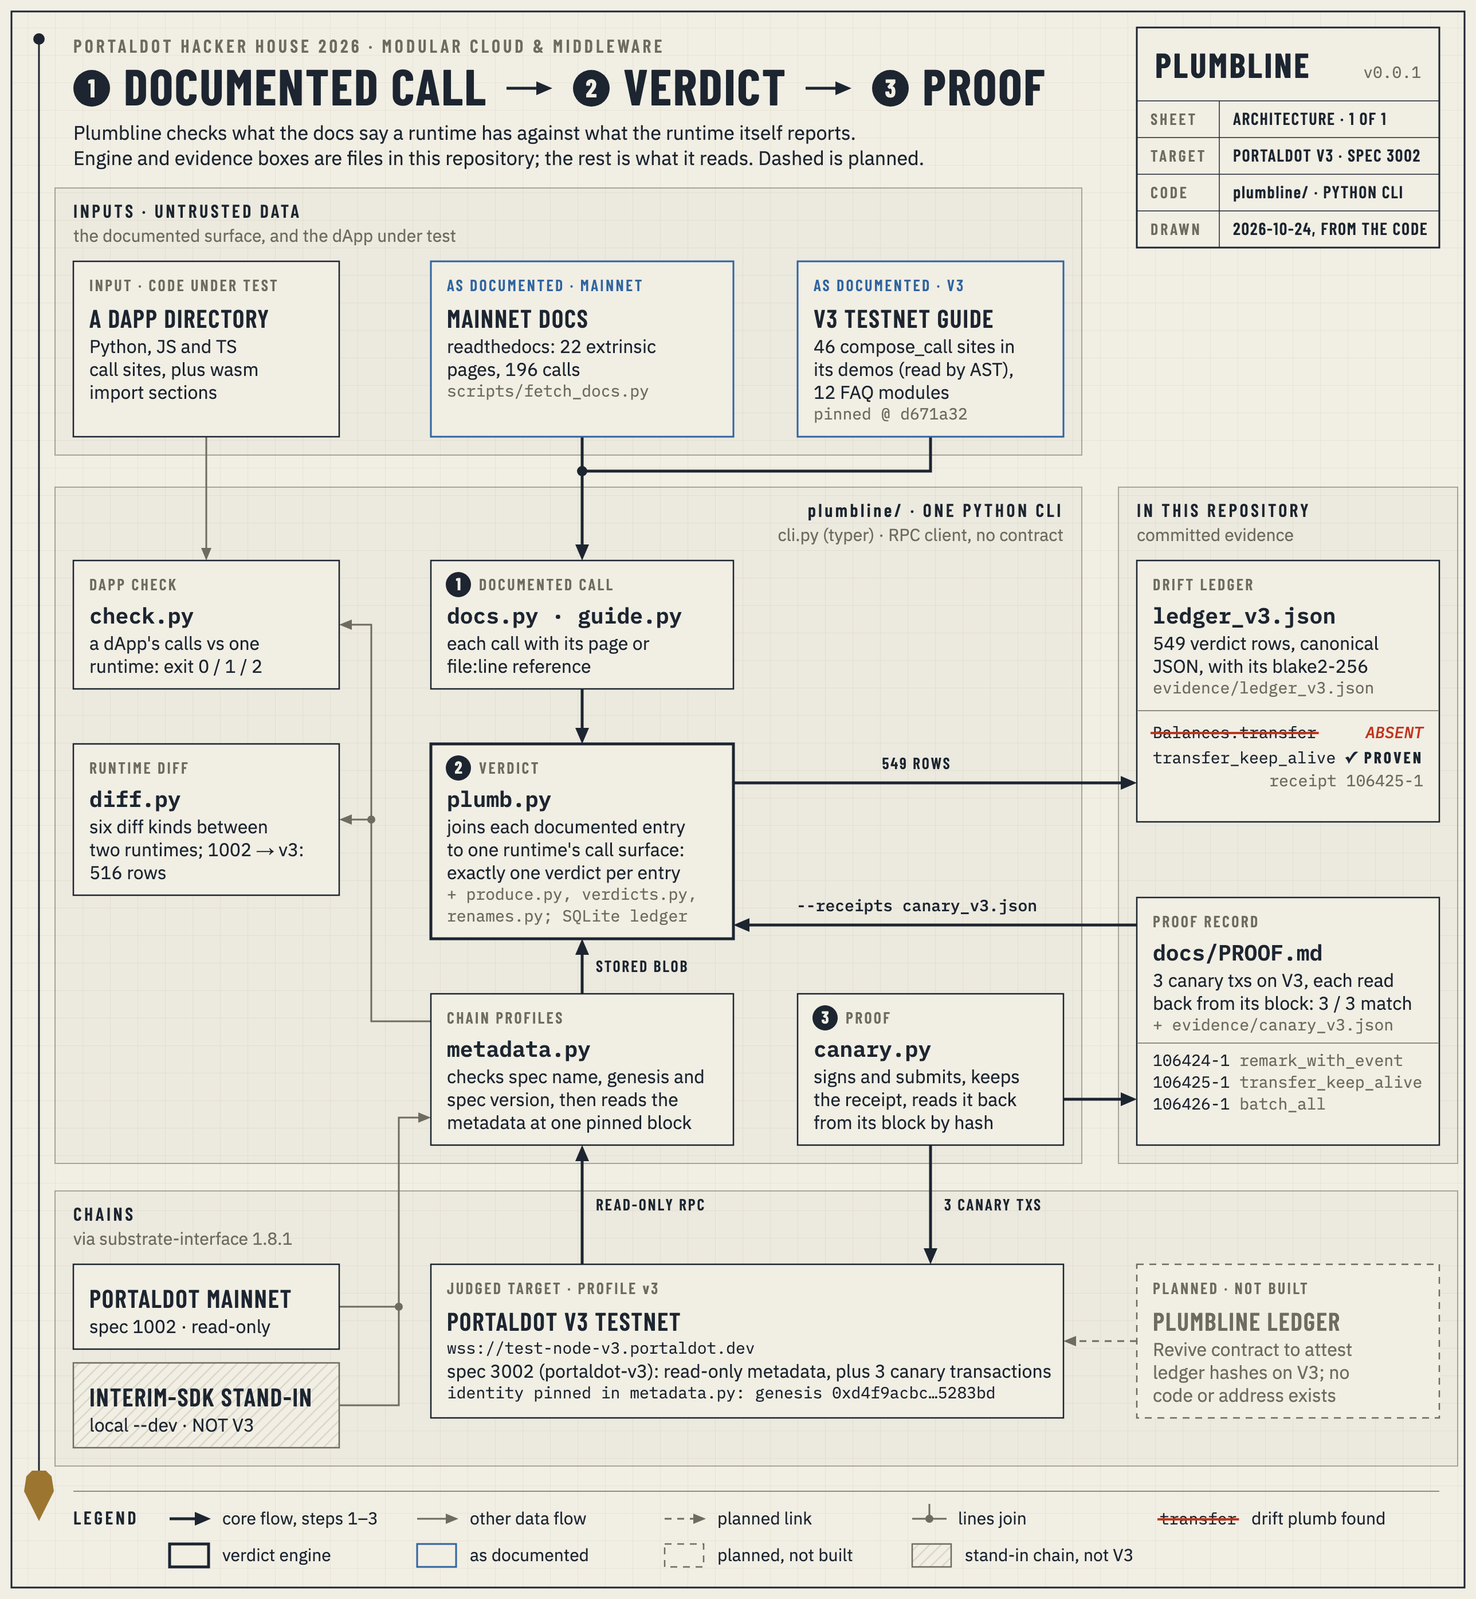
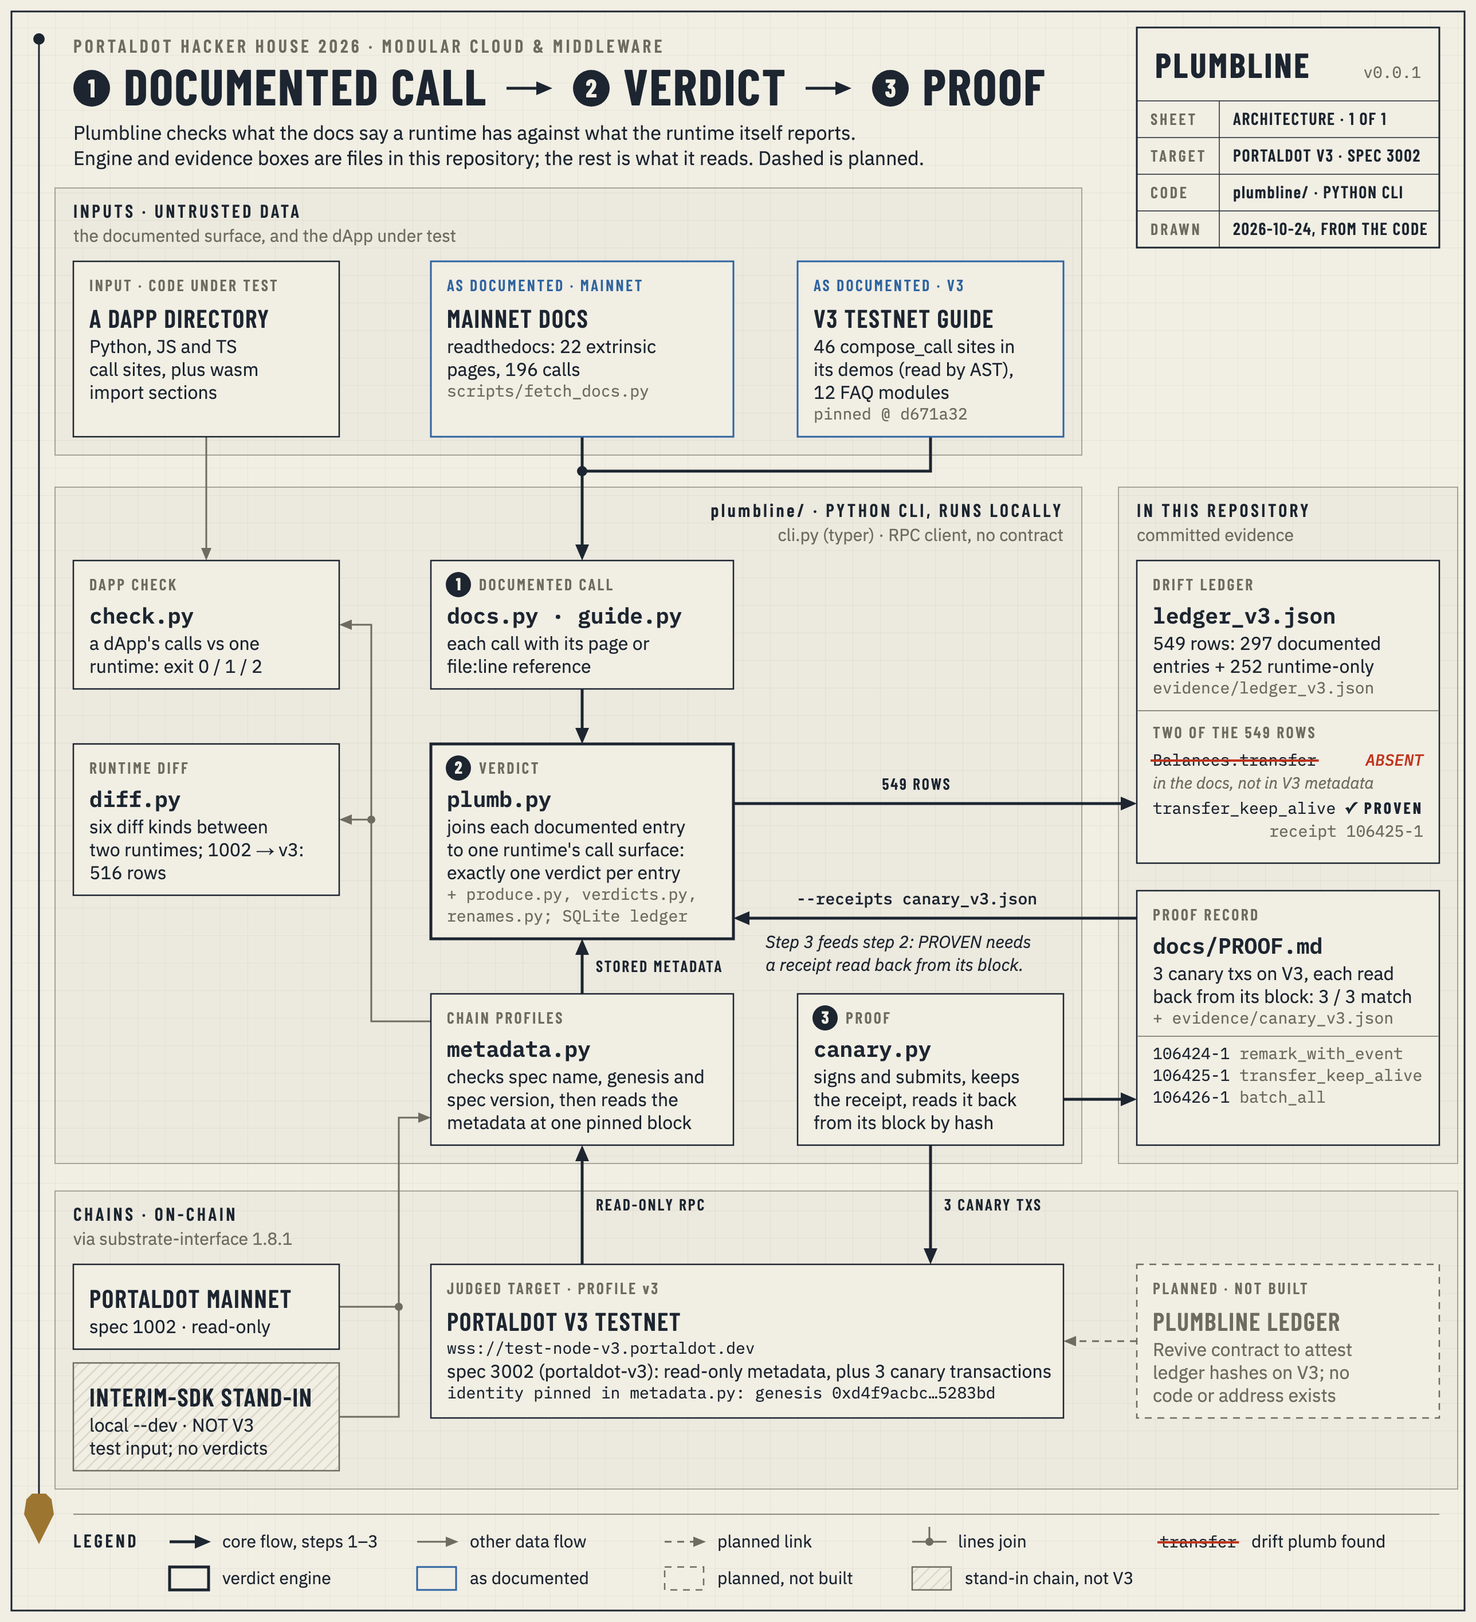
docs: architecture diagram: 549 = 297 documented + 252 runtime-only, excerpt explained, stand-in role, receipts callout

diff --git a/docs/architecture.html b/docs/architecture.html
@@ -3,10 +3,10 @@
 <meta name="viewport" content="width=device-width, initial-scale=1">
 <title>Plumbline architecture</title>
 <link rel="preconnect" href="https://fonts.googleapis.com"><link rel="preconnect" href="https://fonts.gstatic.com" crossorigin>
-<link href="https://fonts.googleapis.com/css2?family=Barlow+Condensed:wght@600;700&family=IBM+Plex+Mono:ital,wght@0,400;0,500;0,600;1,500&family=IBM+Plex+Sans:wght@400&display=block" rel="stylesheet">
+<link href="https://fonts.googleapis.com/css2?family=Barlow+Condensed:wght@600;700&family=IBM+Plex+Mono:ital,wght@0,400;0,500;0,600;1,500&family=IBM+Plex+Sans:ital,wght@0,400;1,400&display=block" rel="stylesheet">
 <style>html,body{margin:0;background:#F1EEE4} .wrap{overflow-x:auto}</style>
 </head><body><div class="wrap">
-<svg xmlns="http://www.w3.org/2000/svg" id="arch" width="1288" height="1395" viewBox="0 0 1288 1395" role="img" aria-labelledby="plumbline-arch-title plumbline-arch-desc" style="min-width:1288px;display:block">
+<svg xmlns="http://www.w3.org/2000/svg" id="arch" width="1288" height="1415" viewBox="0 0 1288 1415" role="img" aria-labelledby="plumbline-arch-title plumbline-arch-desc" style="min-width:1288px;display:block">
 <title id="plumbline-arch-title">Plumbline architecture: documented call → verdict → proof</title>
 <desc id="plumbline-arch-desc">The Plumbline CLI reads the Portaldot mainnet docs and the V3 testnet guide into documented calls (docs.py, guide.py), reads a runtime's metadata through a checked chain profile (metadata.py), and plumb.py writes one verdict per documented entry into the drift ledger (evidence/ledger_v3.json, 549 rows). canary.py sends 3 canary transactions to the Portaldot V3 testnet and reads them back; their receipts (evidence/canary_v3.json, tabulated in docs/PROOF.md) are what make a verdict PROVEN. check.py and diff.py reuse the same chain profiles. Mainnet spec 1002 is a read-only baseline, the interim-sdk chain is a local stand-in and not V3, and the Plumbline Ledger contract is planned and not built.</desc>
 <defs><pattern id="grid" width="24" height="24" patternUnits="userSpaceOnUse"><path d="M24,0 H0 V24" fill="none" stroke="#D9D3C3" stroke-width="0.75"/></pattern><pattern id="hatch" width="7" height="7" patternUnits="userSpaceOnUse" patternTransform="rotate(45)"><line x1="0" y1="0" x2="0" y2="7" stroke="#D9D3C3" stroke-width="2.2"/></pattern><style>
@@ -23,6 +23,8 @@
 .balloon{font:700 15px 'Barlow Condensed',sans-serif;fill:#F1EEE4}
 .alabel{font:600 14px 'Barlow Condensed',sans-serif;letter-spacing:.1em;fill:#1C2530}
 .amono{font:500 14px 'IBM Plex Mono',monospace;fill:#1C2530}
+.note{font:italic 400 14px 'IBM Plex Sans',sans-serif;fill:#6E6B60}
+.callout{font:italic 400 15px 'IBM Plex Sans',sans-serif;fill:#1C2530}
 .zone{fill:#1C2530;fill-opacity:.025;stroke:#6E6B60;stroke-opacity:.55;stroke-width:1}
 .zlabel{font:600 16px 'Barlow Condensed',sans-serif;letter-spacing:.14em;fill:#1C2530}
 .zdesc{font:400 15px 'IBM Plex Sans',sans-serif;fill:#6E6B60}
@@ -35,12 +37,12 @@
 .tbk{font:600 14px 'Barlow Condensed',sans-serif;letter-spacing:.14em;fill:#6E6B60}
 .tbv{font:600 15px 'Barlow Condensed',sans-serif;letter-spacing:.06em;fill:#1C2530}
 </style></defs>
-<rect width="1288" height="1395" fill="#F1EEE4"/>
-<rect x="10" y="10" width="1268" height="1375" fill="url(#grid)" opacity=".55"/>
-<rect x="10" y="10" width="1268" height="1375" fill="none" stroke="#1C2530" stroke-width="1.5"/>
+<rect width="1288" height="1415" fill="#F1EEE4"/>
+<rect x="10" y="10" width="1268" height="1395" fill="url(#grid)" opacity=".55"/>
+<rect x="10" y="10" width="1268" height="1395" fill="none" stroke="#1C2530" stroke-width="1.5"/>
 <circle cx="34" cy="34" r="5" fill="#1C2530"/>
-<line x1="34" y1="34" x2="34" y2="1283" stroke="#1C2530" stroke-width="1.5"/>
-<polygon points="34,1327 21,1301 23,1288 28,1283 40,1283 45,1288 47,1301" fill="#9C7630"/>
+<line x1="34" y1="34" x2="34" y2="1303" stroke="#1C2530" stroke-width="1.5"/>
+<polygon points="34,1347 21,1321 23,1308 28,1303 40,1303 45,1308 47,1321" fill="#9C7630"/>
 <text class="eyebrow" x="64" y="46">PORTALDOT HACKER HOUSE 2026 · MODULAR CLOUD &amp; MIDDLEWARE</text>
 <circle cx="80" cy="77" r="16" fill="#1C2530"/>
 <text class="tballoon" x="80" y="85" text-anchor="middle">1</text>
@@ -79,9 +81,9 @@
 <text class="tbv" x="1076" y="205">2026-10-24, FROM THE CODE</text>
 </g>
 <rect class="zone" x="48" y="164" width="896" height="233"/><text class="zlabel" x="64" y="190" text-anchor="start">INPUTS · UNTRUSTED DATA</text><text class="zdesc" x="64" y="211" text-anchor="start">the documented surface, and the dApp under test</text>
-<rect class="zone" x="48" y="425" width="896" height="590"/><text class="zlabel" x="928" y="451" text-anchor="end">plumbline/ · ONE PYTHON CLI</text><text class="zdesc" x="928" y="472" text-anchor="end">cli.py (typer) · RPC client, no contract</text>
+<rect class="zone" x="48" y="425" width="896" height="590"/><text class="zlabel" x="928" y="451" text-anchor="end">plumbline/ · PYTHON CLI, RUNS LOCALLY</text><text class="zdesc" x="928" y="472" text-anchor="end">cli.py (typer) · RPC client, no contract</text>
 <rect class="zone" x="976" y="425" width="296" height="590"/><text class="zlabel" x="992" y="451" text-anchor="start">IN THIS REPOSITORY</text><text class="zdesc" x="992" y="472" text-anchor="start">committed evidence</text>
-<rect class="zone" x="48" y="1039" width="1224" height="240"/><text class="zlabel" x="64" y="1065" text-anchor="start">CHAINS</text><text class="zdesc" x="64" y="1086" text-anchor="start">via substrate-interface 1.8.1</text>
+<rect class="zone" x="48" y="1039" width="1224" height="260"/><text class="zlabel" x="64" y="1065" text-anchor="start">CHAINS · ON-CHAIN</text><text class="zdesc" x="64" y="1086" text-anchor="start">via substrate-interface 1.8.1</text>
 <path d="M508,381 L508,476" fill="none" stroke="#1C2530" stroke-width="2.5" stroke-linejoin="miter" stroke-linecap="butt"/>
 <polygon class="head" points="508,489 502,475 514,475" fill="#1C2530"/>
 <path d="M812,381 L812,411 L508,411" fill="none" stroke="#1C2530" stroke-width="2.5" stroke-linejoin="miter" stroke-linecap="butt"/>
@@ -91,21 +93,21 @@
 <polygon class="head" points="508,819 514,833 502,833" fill="#1C2530"/>
 <path d="M508,1103 L508,1012" fill="none" stroke="#1C2530" stroke-width="2.5" stroke-linejoin="miter" stroke-linecap="butt"/>
 <polygon class="head" points="508,999 514,1013 502,1013" fill="#1C2530"/>
-<path d="M640,683 L979,683" fill="none" stroke="#1C2530" stroke-width="2.5" stroke-linejoin="miter" stroke-linecap="butt"/>
-<polygon class="head" points="992,683 978,689 978,677" fill="#1C2530"/>
+<path d="M640,701 L979,701" fill="none" stroke="#1C2530" stroke-width="2.5" stroke-linejoin="miter" stroke-linecap="butt"/>
+<polygon class="head" points="992,701 978,707 978,695" fill="#1C2530"/>
 <path d="M812,999 L812,1090" fill="none" stroke="#1C2530" stroke-width="2.5" stroke-linejoin="miter" stroke-linecap="butt"/>
 <polygon class="head" points="812,1103 806,1089 818,1089" fill="#1C2530"/>
 <path d="M928,959 L979,959" fill="none" stroke="#1C2530" stroke-width="2.5" stroke-linejoin="miter" stroke-linecap="butt"/>
 <polygon class="head" points="992,959 978,965 978,953" fill="#1C2530"/>
-<path d="M992,807 L653,807" fill="none" stroke="#1C2530" stroke-width="2.5" stroke-linejoin="miter" stroke-linecap="butt"/>
-<polygon class="head" points="640,807 654,801 654,813" fill="#1C2530"/>
+<path d="M992,801 L653,801" fill="none" stroke="#1C2530" stroke-width="2.5" stroke-linejoin="miter" stroke-linecap="butt"/>
+<polygon class="head" points="640,801 654,795 654,807" fill="#1C2530"/>
 <path d="M180,381 L180,479" fill="none" stroke="#6E6B60" stroke-width="1.5" stroke-linejoin="miter" stroke-linecap="butt"/>
 <polygon class="head" points="180,489 175.5,478 184.5,478" fill="#6E6B60"/>
 <path d="M376,891 L324,891 L324,545 L306,545" fill="none" stroke="#6E6B60" stroke-width="1.5" stroke-linejoin="miter" stroke-linecap="butt"/>
 <polygon class="head" points="296,545 307,540.5 307,549.5" fill="#6E6B60"/>
 <path d="M324,715 L306,715" fill="none" stroke="#6E6B60" stroke-width="1.5" stroke-linejoin="miter" stroke-linecap="butt"/>
 <polygon class="head" points="296,715 307,710.5 307,719.5" fill="#6E6B60"/>
-<path d="M296,1226 L348,1226 L348,975 L366,975" fill="none" stroke="#6E6B60" stroke-width="1.5" stroke-linejoin="miter" stroke-linecap="butt"/>
+<path d="M296,1236 L348,1236 L348,975 L366,975" fill="none" stroke="#6E6B60" stroke-width="1.5" stroke-linejoin="miter" stroke-linecap="butt"/>
 <polygon class="head" points="376,975 365,979.5 365,970.5" fill="#6E6B60"/>
 <path d="M296,1140 L348,1140" fill="none" stroke="#6E6B60" stroke-width="1.5" stroke-linejoin="miter" stroke-linecap="butt"/>
 <path d="M992,1170 L938,1170" fill="none" stroke="#6E6B60" stroke-width="1.5" stroke-dasharray="6 5" stroke-linejoin="miter" stroke-linecap="butt"/>
@@ -201,34 +203,36 @@
 <text class="body" x="710" y="965">the receipt, reads it back</text>
 <text class="body" x="710" y="985">from its block by hash</text>
 </g>
-<g class="node" id="n-ledger" data-box="992,489,264,228">
-<rect x="992" y="489" width="264" height="228" fill="#F1EEE4"/>
-<rect x="992" y="489" width="264" height="228" fill="none" stroke="#1C2530" stroke-width="1.25"/>
+<g class="node" id="n-ledger" data-box="992,489,264,264">
+<rect x="992" y="489" width="264" height="264" fill="#F1EEE4"/>
+<rect x="992" y="489" width="264" height="264" fill="none" stroke="#1C2530" stroke-width="1.25"/>
 <text class="role" x="1006" y="515">DRIFT LEDGER</text>
 <text class="file" x="1006" y="544">ledger_v3.json</text>
-<text class="body" x="1006" y="567">549 verdict rows, canonical</text>
-<text class="body" x="1006" y="587">JSON, with its blake2-256</text>
+<text class="body" x="1006" y="567">549 rows: 297 documented</text>
+<text class="body" x="1006" y="587">entries + 252 runtime-only</text>
 <text class="mono" x="1006" y="605">evidence/ledger_v3.json</text>
 <line x1="993" y1="620" x2="1255" y2="620" stroke="#6E6B60" stroke-width="0.75"/>
-<text class="mono ink" x="1006" y="644">Balances.transfer</text>
-<line x1="1004" y1="639.5" x2="1150.8" y2="639.5" stroke="#C0341C" stroke-width="2"/>
-<text class="margin" x="1242" y="644" text-anchor="end">ABSENT</text>
-<text class="mono ink" x="1006" y="666">transfer_keep_alive</text>
-<text class="stamp" x="1242" y="666" text-anchor="end">✓ PROVEN</text>
-<text class="mono" x="1242" y="686" text-anchor="end">receipt 106425-1</text>
+<text class="role" x="1006" y="644">TWO OF THE 549 ROWS</text>
+<text class="mono ink" x="1006" y="668">Balances.transfer</text>
+<line x1="1004" y1="663.5" x2="1150.8" y2="663.5" stroke="#C0341C" stroke-width="2"/>
+<text class="margin" x="1242" y="668" text-anchor="end">ABSENT</text>
+<text class="note" x="1006" y="688">in the docs, not in V3 metadata</text>
+<text class="mono ink" x="1006" y="710">transfer_keep_alive</text>
+<text class="stamp" x="1242" y="710" text-anchor="end">✓ PROVEN</text>
+<text class="mono" x="1242" y="730" text-anchor="end">receipt 106425-1</text>
 </g>
-<g class="node" id="n-proof" data-box="992,783,264,216">
-<rect x="992" y="783" width="264" height="216" fill="#F1EEE4"/>
-<rect x="992" y="783" width="264" height="216" fill="none" stroke="#1C2530" stroke-width="1.25"/>
-<text class="role" x="1006" y="809">PROOF RECORD</text>
-<text class="file" x="1006" y="838">docs/PROOF.md</text>
-<text class="body" x="1006" y="861">3 canary txs on V3, each read</text>
-<text class="body" x="1006" y="881">back from its block: 3 / 3 match</text>
-<text class="mono" x="1006" y="899">+ evidence/canary_v3.json</text>
-<line x1="993" y1="910" x2="1255" y2="910" stroke="#6E6B60" stroke-width="0.75"/>
-<text class="mono ink" x="1006" y="930">106424-1<tspan class="mono" dx="8.4">remark_with_event</tspan></text>
-<text class="mono ink" x="1006" y="949">106425-1<tspan class="mono" dx="8.4">transfer_keep_alive</tspan></text>
-<text class="mono ink" x="1006" y="968">106426-1<tspan class="mono" dx="8.4">batch_all</tspan></text>
+<g class="node" id="n-proof" data-box="992,777,264,222">
+<rect x="992" y="777" width="264" height="222" fill="#F1EEE4"/>
+<rect x="992" y="777" width="264" height="222" fill="none" stroke="#1C2530" stroke-width="1.25"/>
+<text class="role" x="1006" y="803">PROOF RECORD</text>
+<text class="file" x="1006" y="832">docs/PROOF.md</text>
+<text class="body" x="1006" y="855">3 canary txs on V3, each read</text>
+<text class="body" x="1006" y="875">back from its block: 3 / 3 match</text>
+<text class="mono" x="1006" y="893">+ evidence/canary_v3.json</text>
+<line x1="993" y1="904" x2="1255" y2="904" stroke="#6E6B60" stroke-width="0.75"/>
+<text class="mono ink" x="1006" y="924">106424-1<tspan class="mono" dx="8.4">remark_with_event</tspan></text>
+<text class="mono ink" x="1006" y="943">106425-1<tspan class="mono" dx="8.4">transfer_keep_alive</tspan></text>
+<text class="mono ink" x="1006" y="962">106426-1<tspan class="mono" dx="8.4">batch_all</tspan></text>
 </g>
 <g class="node" id="n-mainnet" data-box="64,1103,232,74">
 <rect x="64" y="1103" width="232" height="74" fill="#F1EEE4"/>
@@ -236,12 +240,13 @@
 <text class="name" x="78" y="1141">PORTALDOT MAINNET</text>
 <text class="body" x="78" y="1163">spec 1002 · read-only</text>
 </g>
-<g class="node" id="n-standin" data-box="64,1189,232,74">
-<rect x="64" y="1189" width="232" height="74" fill="#F1EEE4"/>
-<rect x="64" y="1189" width="232" height="74" fill="url(#hatch)"/>
-<rect x="64" y="1189" width="232" height="74" fill="none" stroke="#6E6B60" stroke-width="1.25"/>
+<g class="node" id="n-standin" data-box="64,1189,232,94">
+<rect x="64" y="1189" width="232" height="94" fill="#F1EEE4"/>
+<rect x="64" y="1189" width="232" height="94" fill="url(#hatch)"/>
+<rect x="64" y="1189" width="232" height="94" fill="none" stroke="#6E6B60" stroke-width="1.25"/>
 <text class="name" x="78" y="1227">INTERIM-SDK STAND-IN</text>
 <text class="body" x="78" y="1249">local --dev · NOT V3</text>
+<text class="body" x="78" y="1269">test input; no verdicts</text>
 </g>
 <g class="node" id="n-v3" data-box="376,1103,552,134">
 <rect x="376" y="1103" width="552" height="134" fill="#F1EEE4"/>
@@ -261,39 +266,40 @@
 <text class="body dim" x="1006" y="1203">ledger hashes on V3; no</text>
 <text class="body dim" x="1006" y="1223">code or address exists</text>
 </g>
-<text class="alabel lbl" x="520" y="848" text-anchor="start">STORED BLOB</text>
+<text class="alabel lbl" x="520" y="848" text-anchor="start">STORED METADATA</text>
 <text class="alabel lbl" x="520" y="1056" text-anchor="start">READ-ONLY RPC</text>
-<text class="alabel lbl" x="800" y="671" text-anchor="middle">549 ROWS</text>
+<text class="alabel lbl" x="800" y="689" text-anchor="middle">549 ROWS</text>
 <text class="alabel lbl" x="824" y="1056" text-anchor="start">3 CANARY TXS</text>
-<text class="amono lbl" x="800" y="795" text-anchor="middle">--receipts canary_v3.json</text>
+<text class="amono lbl" x="800" y="789" text-anchor="middle">--receipts canary_v3.json</text>
+<g class="calloutg"><text class="callout" x="668" y="827">Step 3 feeds step 2: PROVEN needs</text><text class="callout" x="668" y="847">a receipt read back from its block.</text></g>
 <g class="legendrow">
-<line x1="64" y1="1301" x2="1256" y2="1301" stroke="#6E6B60" stroke-width="0.75"/>
-<text class="zlabel" x="64" y="1330">LEGEND</text>
-<path d="M148,1325 L171,1325" fill="none" stroke="#1C2530" stroke-width="2.5" stroke-linejoin="miter" stroke-linecap="butt"/>
-<polygon class="head" points="184,1325 170,1331 170,1319" fill="#1C2530"/>
-<text class="legend" x="194" y="1330">core flow, steps 1–3</text>
-<path d="M364,1325 L390,1325" fill="none" stroke="#6E6B60" stroke-width="1.5" stroke-linejoin="miter" stroke-linecap="butt"/>
-<polygon class="head" points="400,1325 389,1329.5 389,1320.5" fill="#6E6B60"/>
-<text class="legend" x="410" y="1330">other data flow</text>
-<path d="M580,1325 L606,1325" fill="none" stroke="#6E6B60" stroke-width="1.5" stroke-dasharray="6 5" stroke-linejoin="miter" stroke-linecap="butt"/>
-<polygon class="head" points="616,1325 605,1329.5 605,1320.5" fill="#6E6B60"/>
-<text class="legend" x="626" y="1330">planned link</text>
-<line x1="796" y1="1325" x2="826" y2="1325" stroke="#6E6B60" stroke-width="1.5"/>
-<line x1="811" y1="1325" x2="811" y2="1312" stroke="#6E6B60" stroke-width="1.5"/>
-<circle cx="811" cy="1325" r="3.5" fill="#6E6B60"/>
-<text class="legend" x="836" y="1330">lines join</text>
-<text class="mono ink" x="1012" y="1330">transfer</text>
-<line x1="1010" y1="1325.5" x2="1081.2" y2="1325.5" stroke="#C0341C" stroke-width="2"/>
-<text class="legend" x="1092" y="1330">drift plumb found</text>
-<rect x="148" y="1347" width="34" height="20" fill="#F1EEE4" stroke="#1C2530" stroke-width="2.5"/>
-<text class="legend" x="194" y="1362">verdict engine</text>
-<rect x="364" y="1347" width="34" height="20" fill="#F1EEE4" stroke="#2F64A0" stroke-width="1.5"/>
-<text class="legend" x="410" y="1362">as documented</text>
-<rect x="580" y="1347" width="34" height="20" fill="#F1EEE4" stroke="#6E6B60" stroke-width="1.25" stroke-dasharray="6 5"/>
-<text class="legend" x="626" y="1362">planned, not built</text>
-<rect x="796" y="1347" width="34" height="20" fill="#F1EEE4"/>
-<rect x="796" y="1347" width="34" height="20" fill="url(#hatch)" stroke="#6E6B60" stroke-width="1.25"/>
-<text class="legend" x="842" y="1362">stand-in chain, not V3</text>
+<line x1="64" y1="1321" x2="1256" y2="1321" stroke="#6E6B60" stroke-width="0.75"/>
+<text class="zlabel" x="64" y="1350">LEGEND</text>
+<path d="M148,1345 L171,1345" fill="none" stroke="#1C2530" stroke-width="2.5" stroke-linejoin="miter" stroke-linecap="butt"/>
+<polygon class="head" points="184,1345 170,1351 170,1339" fill="#1C2530"/>
+<text class="legend" x="194" y="1350">core flow, steps 1–3</text>
+<path d="M364,1345 L390,1345" fill="none" stroke="#6E6B60" stroke-width="1.5" stroke-linejoin="miter" stroke-linecap="butt"/>
+<polygon class="head" points="400,1345 389,1349.5 389,1340.5" fill="#6E6B60"/>
+<text class="legend" x="410" y="1350">other data flow</text>
+<path d="M580,1345 L606,1345" fill="none" stroke="#6E6B60" stroke-width="1.5" stroke-dasharray="6 5" stroke-linejoin="miter" stroke-linecap="butt"/>
+<polygon class="head" points="616,1345 605,1349.5 605,1340.5" fill="#6E6B60"/>
+<text class="legend" x="626" y="1350">planned link</text>
+<line x1="796" y1="1345" x2="826" y2="1345" stroke="#6E6B60" stroke-width="1.5"/>
+<line x1="811" y1="1345" x2="811" y2="1332" stroke="#6E6B60" stroke-width="1.5"/>
+<circle cx="811" cy="1345" r="3.5" fill="#6E6B60"/>
+<text class="legend" x="836" y="1350">lines join</text>
+<text class="mono ink" x="1012" y="1350">transfer</text>
+<line x1="1010" y1="1345.5" x2="1081.2" y2="1345.5" stroke="#C0341C" stroke-width="2"/>
+<text class="legend" x="1092" y="1350">drift plumb found</text>
+<rect x="148" y="1367" width="34" height="20" fill="#F1EEE4" stroke="#1C2530" stroke-width="2.5"/>
+<text class="legend" x="194" y="1382">verdict engine</text>
+<rect x="364" y="1367" width="34" height="20" fill="#F1EEE4" stroke="#2F64A0" stroke-width="1.5"/>
+<text class="legend" x="410" y="1382">as documented</text>
+<rect x="580" y="1367" width="34" height="20" fill="#F1EEE4" stroke="#6E6B60" stroke-width="1.25" stroke-dasharray="6 5"/>
+<text class="legend" x="626" y="1382">planned, not built</text>
+<rect x="796" y="1367" width="34" height="20" fill="#F1EEE4"/>
+<rect x="796" y="1367" width="34" height="20" fill="url(#hatch)" stroke="#6E6B60" stroke-width="1.25"/>
+<text class="legend" x="842" y="1382">stand-in chain, not V3</text>
 </g>
 </svg>
 </div></body></html>
